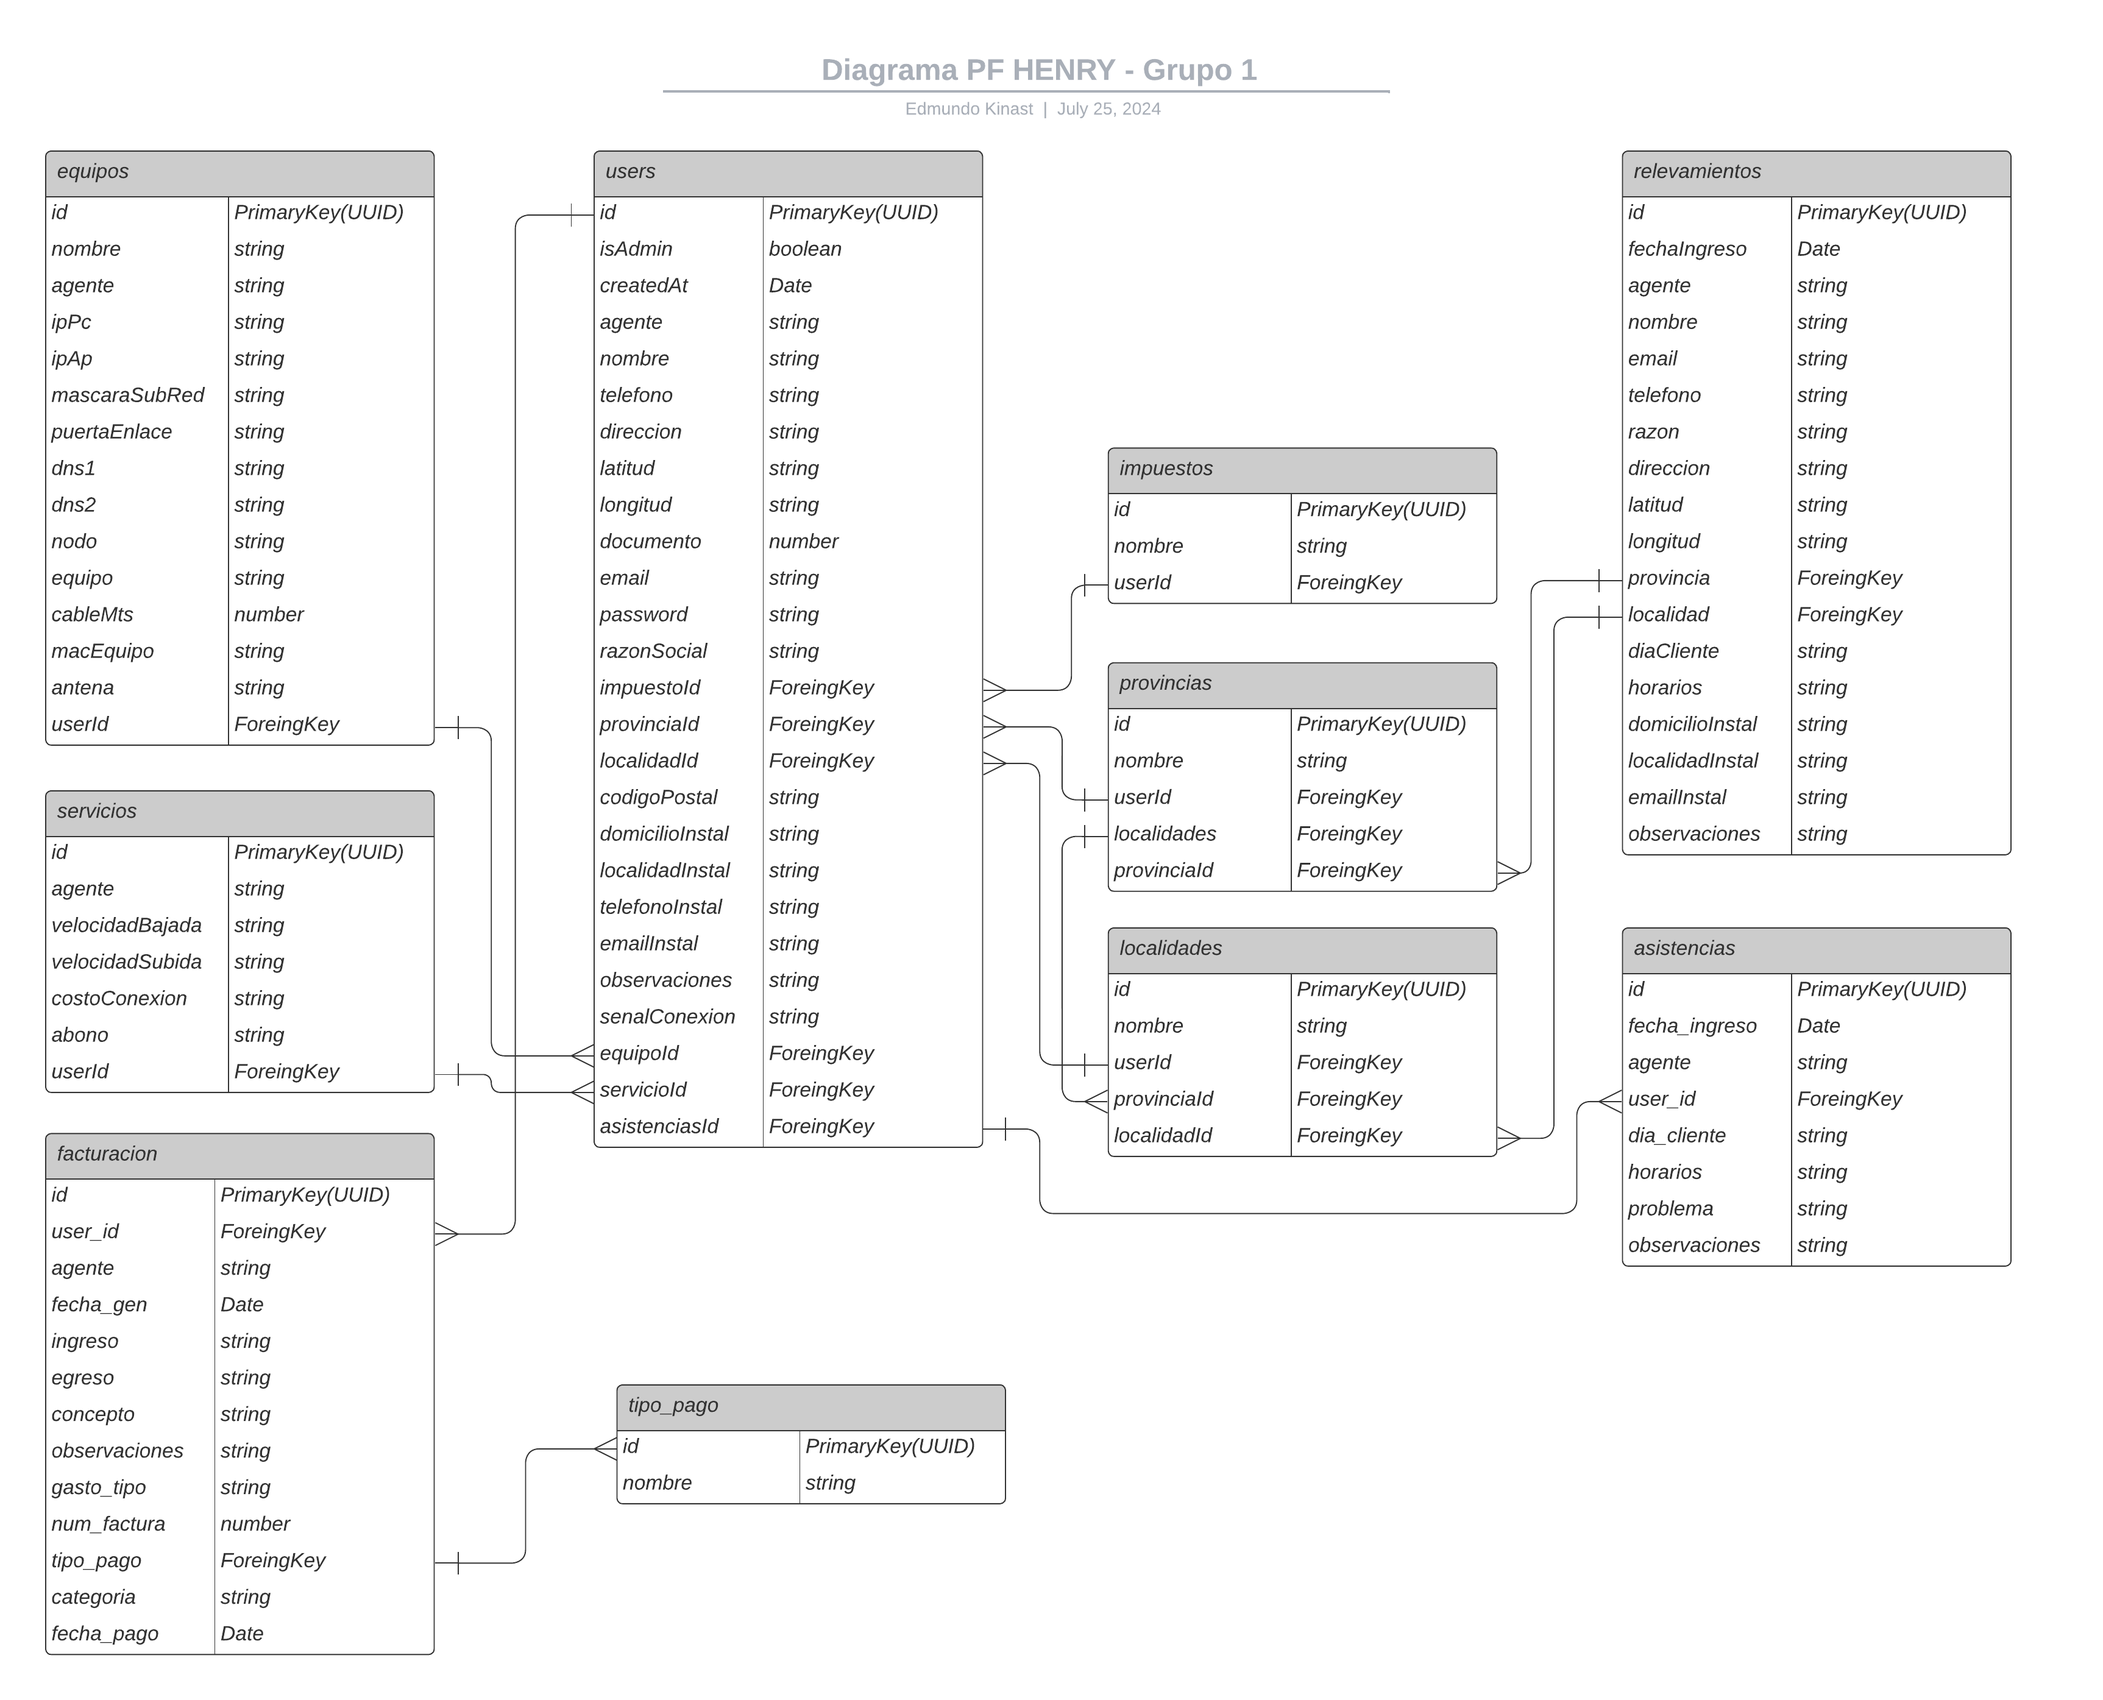
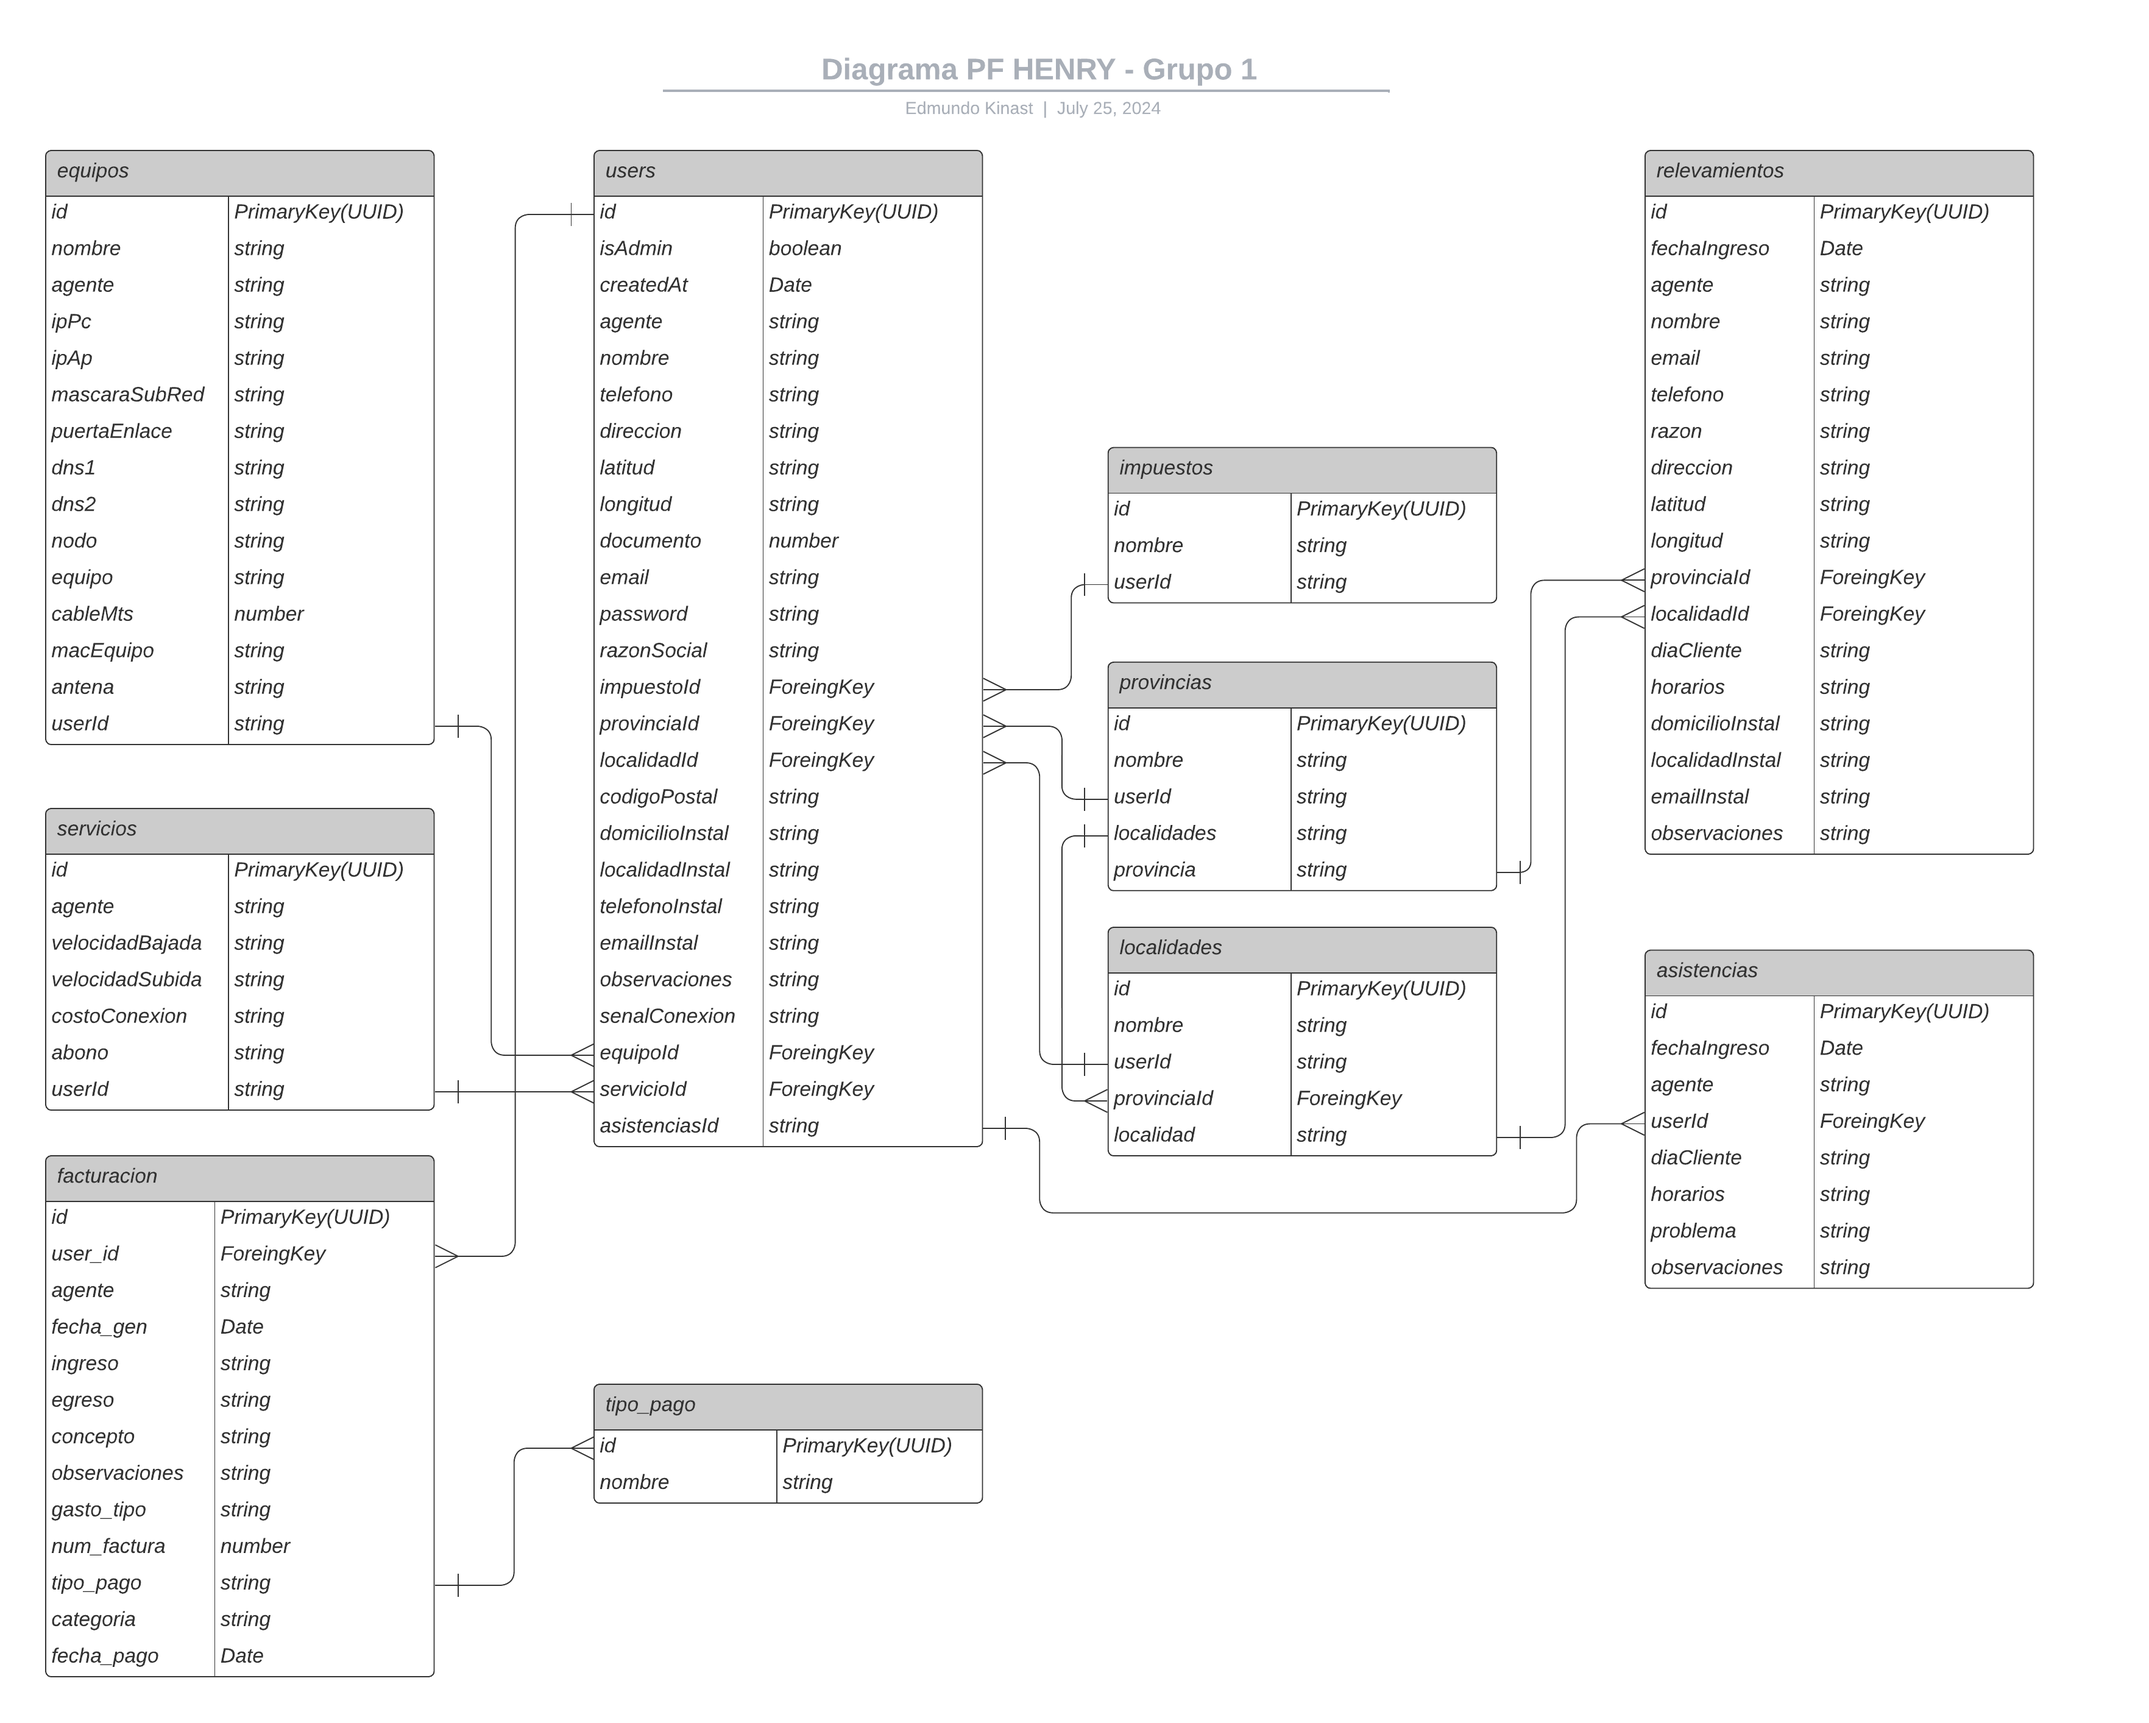
Relaciones entre provincias y localidades con relevamiento

diff --git a/src/modules/relevamientos/entities/relevamiento.entity.ts b/src/modules/relevamientos/entities/relevamiento.entity.ts
@@ -1,4 +1,10 @@
-import { Column, Entity, OneToMany, PrimaryGeneratedColumn } from 'typeorm';
+import {
+  Column,
+  Entity,
+  JoinColumn,
+  ManyToOne,
+  PrimaryGeneratedColumn,
+} from 'typeorm';
 import { Provincia } from 'src/modules/provincias/entities/provincia.entity';
 import { Localidad } from 'src/modules/localidades/entities/localidades.entity';
 
@@ -40,11 +46,13 @@ export class Relevamiento {
   @Column('double precision', { nullable: false })
   longitud: number;
 
-  @OneToMany(() => Provincia, (provincia) => provincia.relevamiento)
-  provincia: Provincia[];
+  @ManyToOne(() => Provincia, (provincia) => provincia.relevamiento)
+  @JoinColumn({ name: 'provinciaId' })
+  provincia: Provincia;
 
-  @OneToMany(() => Localidad, (localidad) => localidad.relevamiento)
-  localidad: Localidad[];
+  @ManyToOne(() => Localidad, (localidad) => localidad.relevamiento)
+  @JoinColumn({ name: 'localidadId' })
+  localidad: Localidad;
 
   @Column()
   diaCliente: string;

diff --git a/src/modules/provincias/entities/provincia.entity.ts b/src/modules/provincias/entities/provincia.entity.ts
@@ -1,11 +1,4 @@
-import {
-  Column,
-  Entity,
-  JoinColumn,
-  ManyToOne,
-  OneToMany,
-  PrimaryGeneratedColumn,
-} from 'typeorm';
+import { Column, Entity, OneToMany, PrimaryGeneratedColumn } from 'typeorm';
 import { Localidad } from '../../localidades/entities/localidades.entity';
 import { User } from '../../users/entities/user.entity';
 import { Relevamiento } from '../../relevamientos/entities/relevamiento.entity';
@@ -26,7 +19,8 @@ export class Provincia {
   @OneToMany(() => Localidad, (localidad) => localidad.provincia)
   localidades: Localidad[];
 
-  @ManyToOne(() => Relevamiento, (relevamiento) => relevamiento.provincia)
-  @JoinColumn({ name: 'relevamientoId' })
-  relevamiento: Relevamiento;
+  @OneToMany(() => Relevamiento, (relevamiento) => relevamiento.provincia, {
+    nullable: false,
+  })
+  relevamiento: Relevamiento[];
 }

diff --git a/src/modules/localidades/entities/localidades.entity.ts b/src/modules/localidades/entities/localidades.entity.ts
@@ -23,11 +23,14 @@ export class Localidad {
   @OneToMany(() => User, (user) => user.localidad)
   users: User[];
 
-  @ManyToOne(() => Provincia, (provincia) => provincia.localidades)
+  @ManyToOne(() => Provincia, (provincia) => provincia.localidades, {
+    nullable: false,
+  })
   @JoinColumn({ name: 'provinciaId' })
   provincia: Provincia;
 
-  @ManyToOne(() => Relevamiento, (relevamiento) => relevamiento.localidad)
-  @JoinColumn({ name: 'localidadId' })
-  relevamiento: Relevamiento;
+  @OneToMany(() => Relevamiento, (relevamiento) => relevamiento.localidad, {
+    nullable: false,
+  })
+  relevamiento: Relevamiento[];
 }
